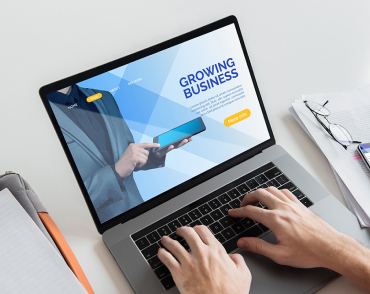
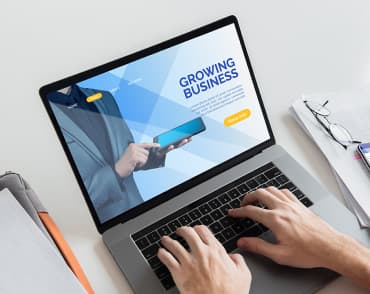
сделал портфолио
подкорректировал хедер и футер, взял из студии, в портфолио, оптимизировал все изображения.

diff --git a/portfolio.html b/portfolio.html
@@ -26,6 +26,7 @@
             alt="Основной логотип Веб Студия"
           />
         </a>
+
         <ul class="list link-nav">
           <li class="link-nav-list">
             <a class="link header" href="./index.html">Студия</a>
@@ -34,17 +35,25 @@
             <a class="link header" href="./portfolio.html">Портфолио</a>
           </li>
           <li class="link-nav-list">
-            <a class="link header" href="">Контакты</a>
+            <a class="link header" href="/">Контакты</a>
           </li>
         </ul>
         <ul class="list contacts-nav">
           <li class="contacts-list">
-            <a class="contacts" href="mailto:info@devstudio.com"
-              >info@devstudio.com</a
+            <a class="contacts" href="mailto:info@devstudio.com">
+              <svg class="nav-icon-mail-tel" width="22px" height="16px">
+                <use href="./img/symbol-defs.svg#icon-email"></use>
+              </svg>
+              info@devstudio.com</a
             >
           </li>
           <li class="contacts-list">
-            <a class="contacts" href="tel:380961111111">+38 096 111 11 11</a>
+            <a class="contacts" href="tel:380961111111">
+              <svg class="nav-icon-mail-tel" width="15px" height="20px">
+                <use href="./img/symbol-defs.svg#icon-phone"></use>
+              </svg>
+              +38 096 111 11 11</a
+            >
           </li>
         </ul>
       </nav>
@@ -220,7 +229,7 @@
             />
           </a>
 
-          <address class="address">
+          <address class="adress">
             г. Киев, пр-т Леси Украинки, 26 <br />
 
             <a class="contacts-in-footer" href="mailto:info@example.com"
@@ -237,30 +246,63 @@
         <section class="connect">
           <div class="follow">
             <h2 class="footer-title">присоединяйтесь</h2>
-            <ul class="list contacts-links">
-              <li>
-                <a class="link header" href="/" aria-label="ссылка на инстаграм"
-                  >Instagram</a
+            <ul class="list contacts-team">
+              <li class="icon-follow">
+                <a
+                  class="link team-icon-li"
+                  href=""
+                  aria-label="ссылка на инстаграм"
                 >
+                  <svg class="link-icon" width="21px" height="21px">
+                    <use href="./img/symbol-defs.svg#icon-instagram"></use>
+                  </svg>
+                </a>
               </li>
-              <li>
-                <a class="link header" href="/" aria-label="ссылка на твиттер"
-                  >Twitter</a
+              <li class="icon-follow">
+                <a
+                  class="link team-icon-li"
+                  href="/"
+                  aria-label="ссылка на твиттер"
                 >
+                  <svg class="link-icon" width="21px" height="21px">
+                    <use href="./img/symbol-defs.svg#icon-twitter-1"></use>
+                  </svg>
+                </a>
               </li>
-              <li>
-                <a class="link header" href="/" aria-label="ссылка на фейсбук"
-                  >Facebook</a
+              <li class="icon-follow">
+                <a
+                  class="link team-icon-li"
+                  href="/"
+                  aria-label="ссылка на фейсбук"
                 >
+                  <svg class="link-icon" width="21px" height="21px">
+                    <use href="./img/symbol-defs.svg#icon-facebook-1"></use>
+                  </svg>
+                </a>
               </li>
-              <li>
-                <a class="link header" href="/" aria-label="ссылка на линкедин"
-                  >LinkedIn</a
+              <li class="icon-follow">
+                <a
+                  class="link team-icon-li"
+                  href="/"
+                  aria-label="ссылка на линкедин"
                 >
+                  <svg class="link-icon" width="21px" height="21px">
+                    <use href="./img/symbol-defs.svg#icon-linkedin"></use>
+                  </svg>
+                </a>
               </li>
             </ul>
           </div>
         </section>
+        <div class="mailing">
+          <h2 class="footer-title">подпишитесь на рассылку</h2>
+          <button class="mail-to" type="button">
+            Подписаться
+            <svg class="mail-icon" width="24px" height="24px">
+              <use href="./img/symbol-defs.svg#icon-plain"></use>
+            </svg>
+          </button>
+        </div>
       </div>
     </footer>
   </body>

diff --git a/css/portfolio.css b/css/portfolio.css
@@ -118,10 +118,23 @@ img {
 }
 
 .contacts-nav {
+  display: flex;
+  align-items: center;
   margin-left: auto;
   margin-top: 32px;
   margin-bottom: 32px;
-  display: flex;
+  
+}
+
+
+.contacts-list {
+  align-items: center;
+  justify-content: center;
+}
+
+.nav-icon-mail-tel {
+  margin-right: 10px;
+  fill: currentColor;
 }
 
 .contacts-nav .contacts-list + .contacts-list {
@@ -129,8 +142,10 @@ img {
 }
 
 .contacts {
-  color: var(--text-color);
+   display: flex;
+  align-items: center;
 
+  color: var(--text-color);
   font-size: 14px;
   line-height: 1.14;
   text-decoration: none;
@@ -265,7 +280,166 @@ img {
 }
 
 /* Footer */
+.footer-content {
+  display: flex;
+  padding-left: 15px;
+  padding-right: 15px;
+  width: 1200px;
+  margin-left: auto;
+  margin-right: auto;
+}
 
+.logo-footer {
+  display: inline-block;
+  margin-top: 45px;
+  margin-bottom: 0px;
+}
+
+.footer {
+  background-color: #2f303a;
+  padding-bottom: 60px;
+}
+
+.adress {
+  display: block;
+  margin-top: 20px;
+
+  color: var(--text-color-w);
+  font-size: 14px;
+  line-height: 1.71;
+  font-style: normal;
+}
+
+.contacts-in-footer {
+  display: inline-block;
+  margin-top: 9px;
+
+  color: rgba(255, 255, 255, 0.6);
+  font-size: 14px;
+  line-height: 1.71;
+  font-weight: 400;
+  text-decoration: none;
+  font-style: normal;
+}
+
+.contacts-in-footer:hover,
+.contacts-in-footer:focus {
+  outline: none;
+  color: var(--accent-collor);
+  /* border: 1px solid var(--accent-collor); */
+}
+
+.contacts-links {
+  display: flex;
+}
+
+.connect {
+  display: block;
+}
+
+.follow {
+  display: block;
+  margin-left: 69px;
+  margin-top: 57px;
+}
+
+.footer-title {
+  margin-bottom: 20px;
+  margin-top: 0px;
+
+  color: var(--text-color-w);
+  font-size: 14px;
+  line-height: 1.14;
+  font-weight: 700;
+  /* text-align: center; */
+}
+.icon-follow {
+  border-radius: 50%;
+  background: rgba(255, 255, 255, 0.1);
+}
+
+.icon-follow > .team-icon-li {
+  fill: var(--text-color-w);
+}
+
+.mailing {
+  display: inline-block;
+  padding-top: 57px;
+  margin-left: auto;
+}
+
+.mail-to {
+  display: flex;
+  padding: 10px 29px;
+  border-radius: 4px;
+
+  align-items: center;
+  justify-content: center;
+
+  background-color: var(--accent-collor);
+  color: var(--text-color-w);
+  font-family: Roboto;
+  font-style: normal;
+  font-weight: bold;
+  font-size: 16px;
+  line-height: 30px;
+  box-shadow: 0px 4px 4px rgba(0, 0, 0, 0.15);
+}
+
+.mail-icon {
+  margin-left: 10px;
+  fill: #ffffff;
+}
+
+/* Css для иконок в футере */
+
+.contacts-team {
+  justify-content: center;
+  display: flex;
+}
+
+.contacts-team > li {
+  display: flex;
+  height: 44px;
+  margin-right: 10px;
+  width: 44px;
+  height: 44px;
+}
+
+.contacts-team > li:last-child {
+  margin-right: 0px;
+}
+
+.team-icon-li {
+  display: flex;
+  justify-content: center;
+  align-items: center;
+
+  fill: var(--text-color);
+
+  width: 44px;
+  height: 44px;
+}
+.link-icon-team {
+  fill: currentColor;
+}
+
+.link-icon-team:hover,
+.link-icon-team:focus {
+  outline: none;
+  fill: var(--text-color-w);
+}
+
+.team-icon-li:hover,
+.team-icon-li:focus {
+  outline: none;
+  border-radius: 50%;
+  background-color: var(--accent-collor);
+  fill: var(--text-color-w);
+}
+
+
+/* 
 .footer-content {
   display: flex;
   padding-left: 15px;
@@ -335,5 +509,5 @@ img {
   line-height: 1.14;
   font-weight: 700;
   /* text-align: center; */
-}
+} */
 

diff --git a/css/main.css b/css/main.css
@@ -33,7 +33,12 @@ body {
   margin: 0px;
   list-style: none;
 }
-/* Header */
+
+/*
+ Header 
+ 
+ */
+
 .container {
   display: flex;
   padding-left: 15px;
@@ -105,7 +110,6 @@ body {
   margin-left: auto;
   margin-top: 32px;
   margin-bottom: 32px;
-  display: flex;
 }
 
 .contacts-nav .contacts-list + .contacts-list {
@@ -176,11 +180,6 @@ body {
   /* padding: 0px; */
   /* background-color: teal; */
 }
-
-/* .main-hero {
-  padding-left: auto;
-  padding-right: auto;
-} */
 
 .main-title {
   max-width: 696px;
@@ -572,16 +571,6 @@ Footer
   line-height: 30px;
   box-shadow: 0px 4px 4px rgba(0, 0, 0, 0.15);
 }
-
-/* .mail-to::after {
-  content: "";
-  width: 13px;
-  height: 13px;
-  background-image: url(../img/svg-sprite/plain.svg);
-  background-repeat: no-repeat;
-  background-position: 50% 50%;
-  fill: #ffffff;
-} */
 
 .mail-icon {
   margin-left: 10px;
